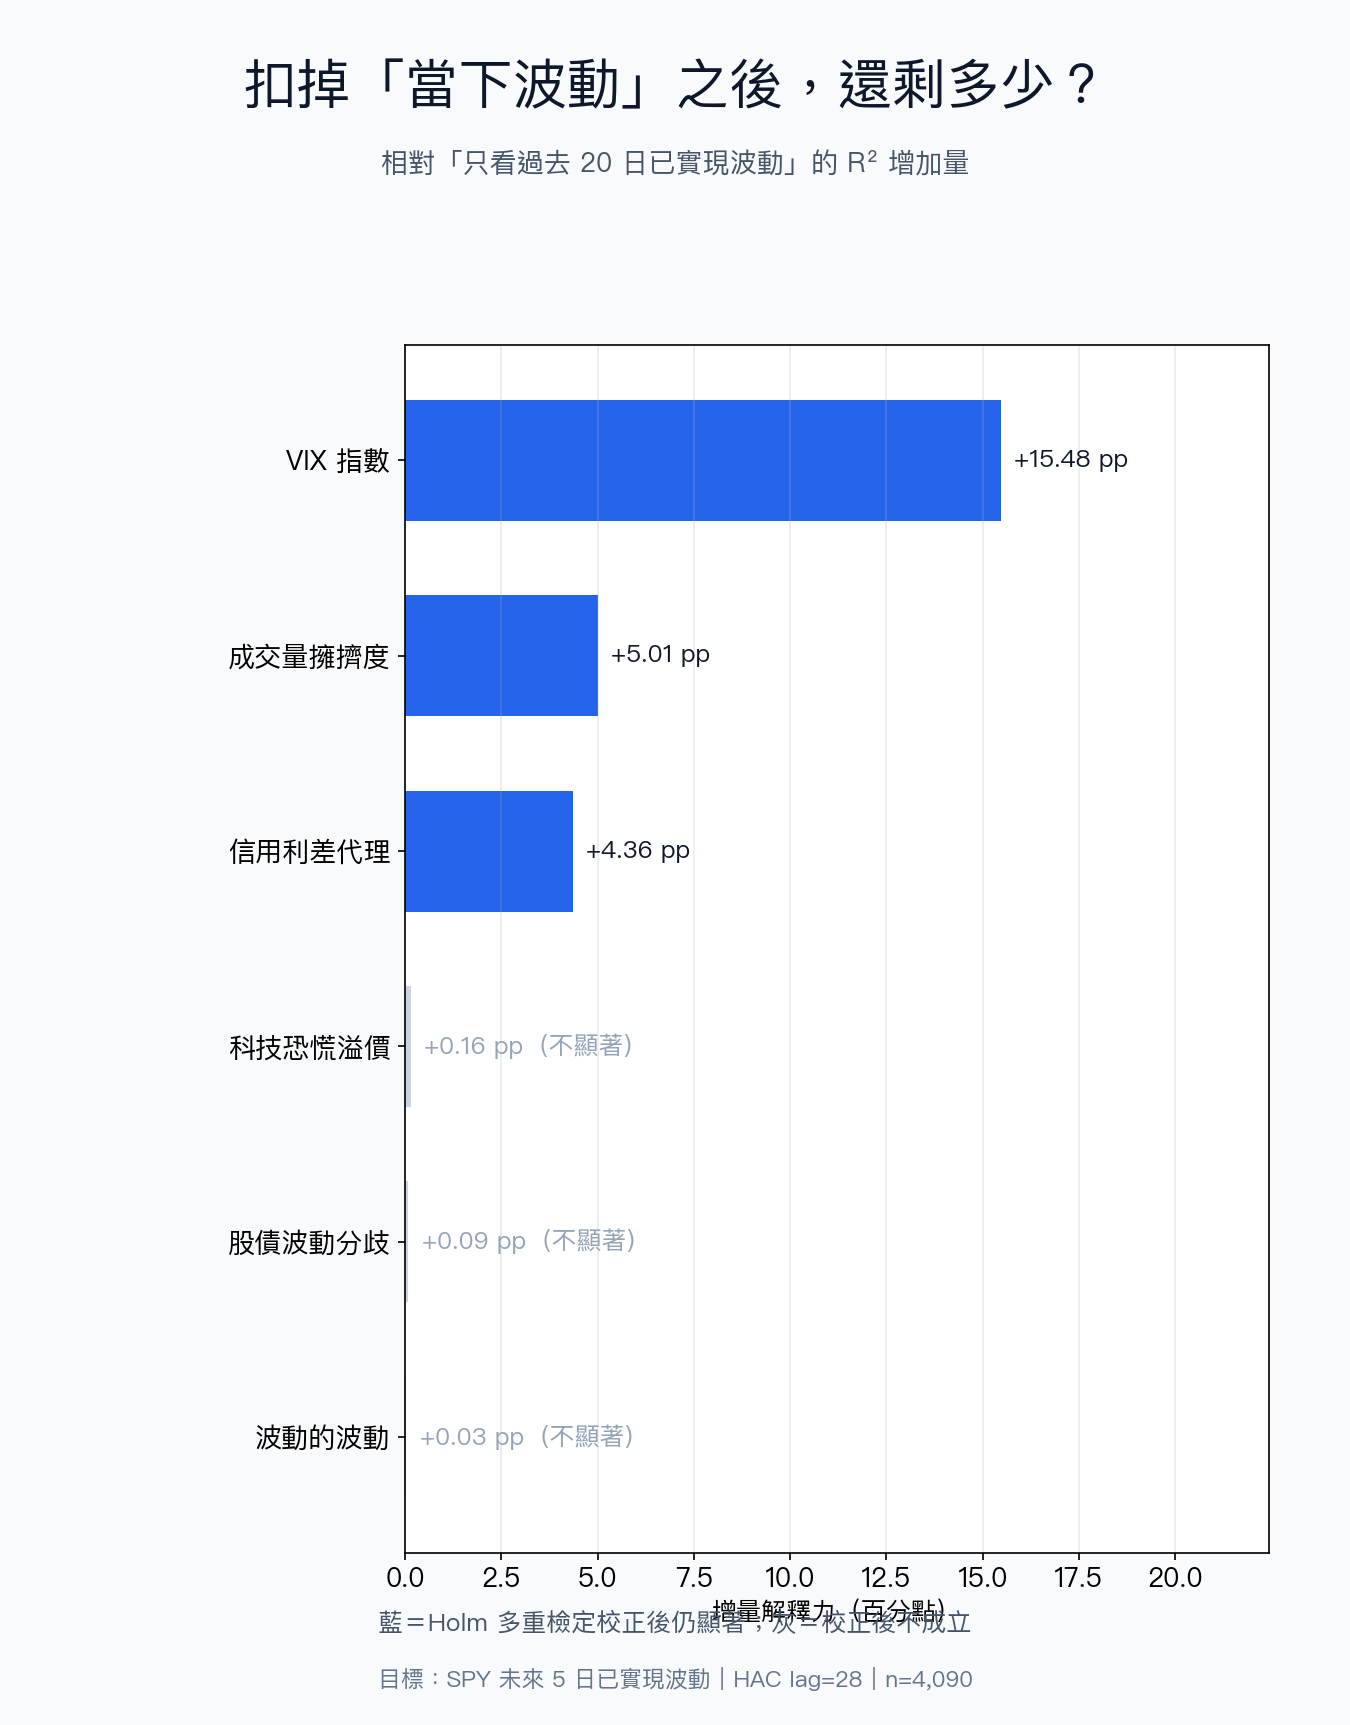
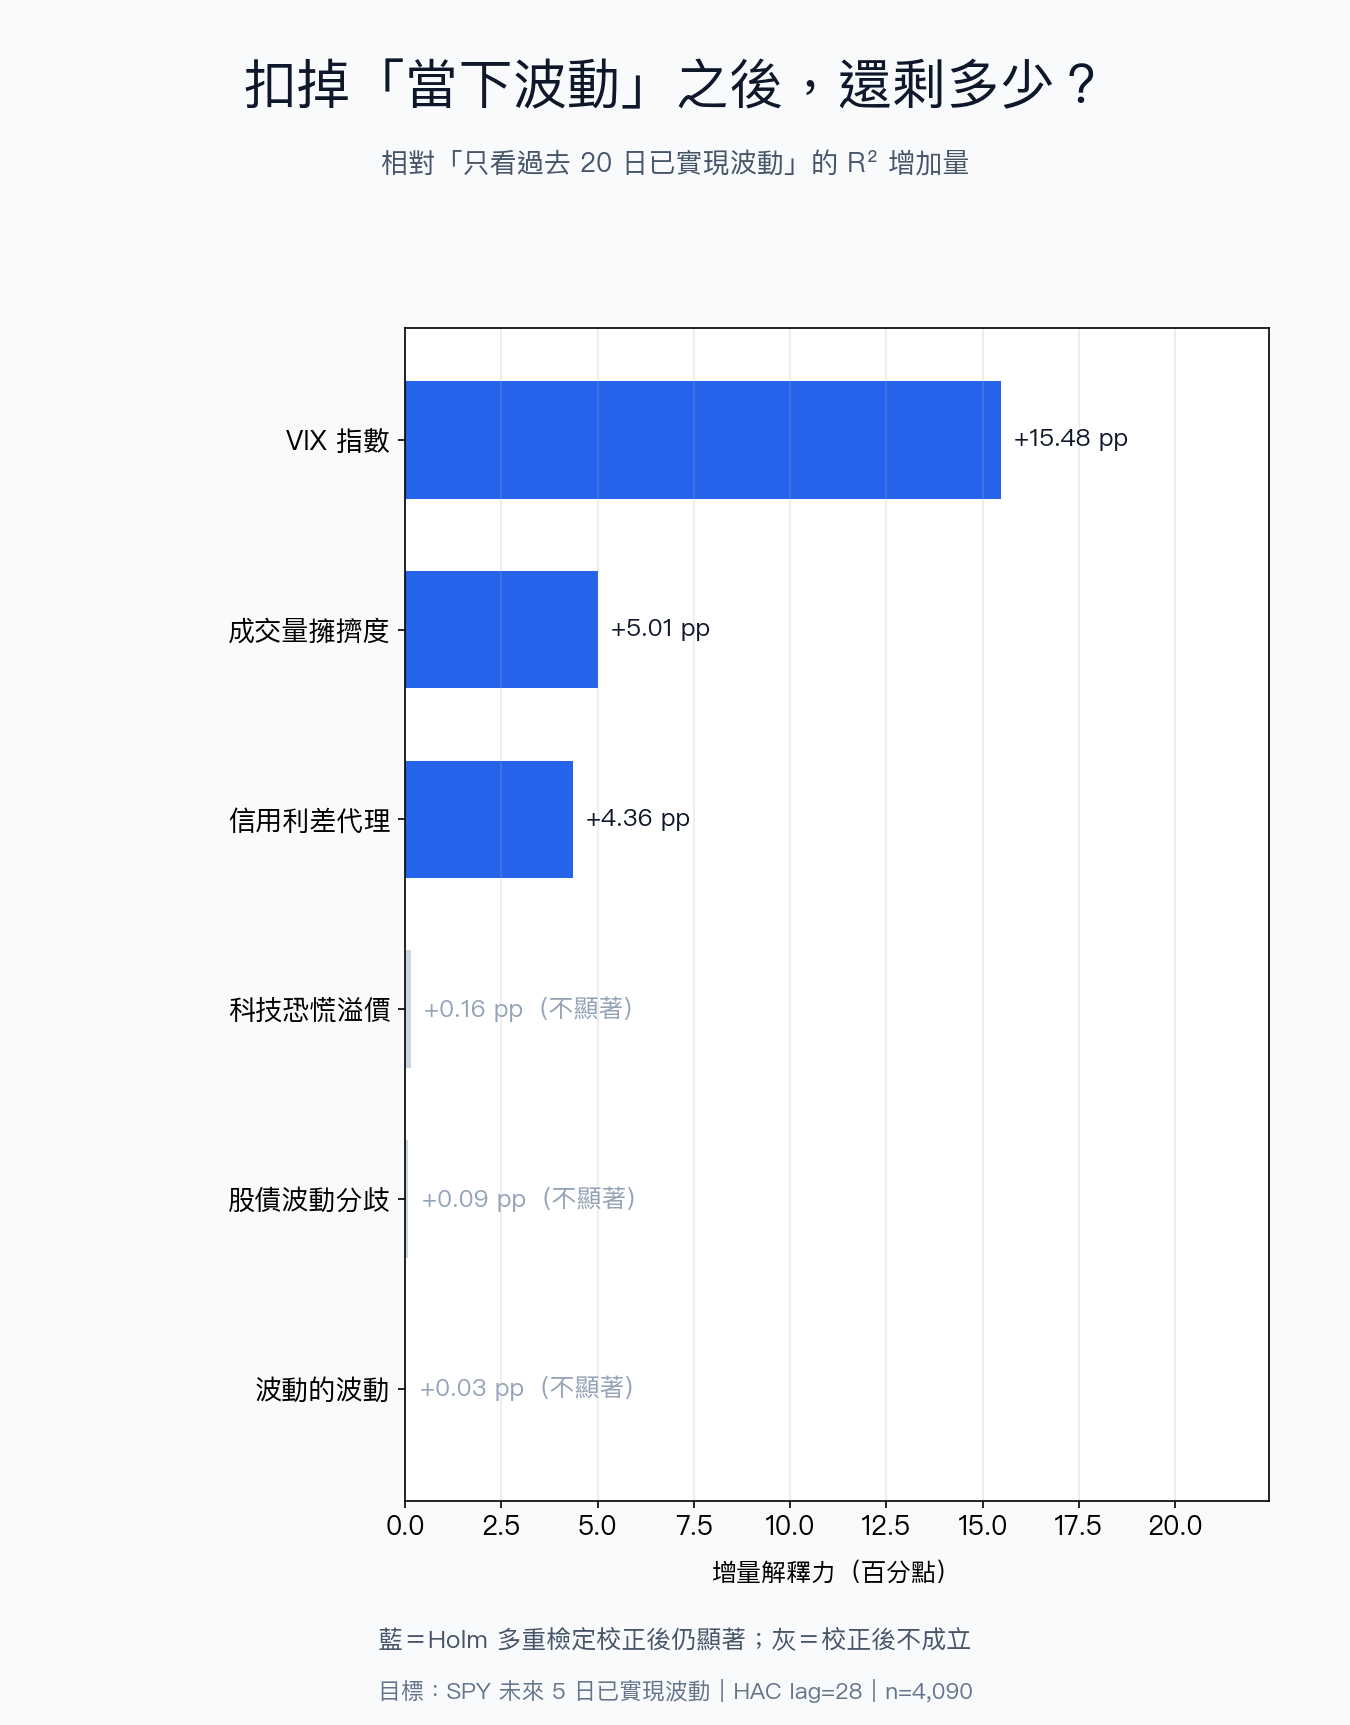
chore(digest-20260713): 修懶人包 panel2 軸標籤與註腳重疊

diff --git a/experiments/digest_20260713/lazypack.py b/experiments/digest_20260713/lazypack.py
@@ -42,7 +42,7 @@ fig.savefig(f"{OUT}/1_four_gates.png", dpi=150, facecolor=BG, bbox_inches="tight
 
 # --- panel 2: 增量體檢結果 ---
 fig, ax = plt.subplots(figsize=(9, 11.5)); fig.patch.set_facecolor(BG)
-ax.set_position([.30, .10, .64, .70])
+ax.set_position([.30, .13, .64, .68])
 sig = sorted(R["signals"], key=lambda d: d["incremental_r2_pp"])
 lab = [short[s["signal"]] for s in sig]
 val = [s["incremental_r2_pp"] for s in sig]
@@ -52,13 +52,13 @@ for i, (v, o) in enumerate(zip(val, ok)):
     ax.text(v + .35, i, f"+{v:.2f} pp" + ("" if o else "  (不顯著)"), va="center", size=12,
             color=INK if o else "#94a3b8", weight="bold" if o else "normal")
 ax.set_xlim(0, max(val) * 1.45)
-ax.set_xlabel("增量解釋力（百分點）", size=12)
+ax.set_xlabel("增量解釋力（百分點）", size=12, labelpad=10)
 ax.tick_params(labelsize=13)
 ax.grid(axis="x", alpha=.25); ax.set_facecolor("white")
 fig.text(.5, .94, "扣掉「當下波動」之後，還剩多少？", ha="center", size=26, weight="bold", color=INK)
 fig.text(.5, .90, "相對「只看過去 20 日已實現波動」的 R² 增加量", ha="center", size=13, color="#475569")
-fig.text(.5, .055, "藍＝Holm 多重檢定校正後仍顯著；灰＝校正後不成立", ha="center", size=12, color="#475569")
-fig.text(.5, .022, f"目標：SPY 未來 5 日已實現波動｜HAC lag={R['hac_lag']}｜n={R['sample']['n_days']:,}",
+fig.text(.5, .045, "藍＝Holm 多重檢定校正後仍顯著；灰＝校正後不成立", ha="center", size=12, color="#475569")
+fig.text(.5, .015, f"目標：SPY 未來 5 日已實現波動｜HAC lag={R['hac_lag']}｜n={R['sample']['n_days']:,}",
          ha="center", size=11, color="#64748b")
 fig.savefig(f"{OUT}/2_incremental.png", dpi=150, facecolor=BG); plt.close(fig)
 
